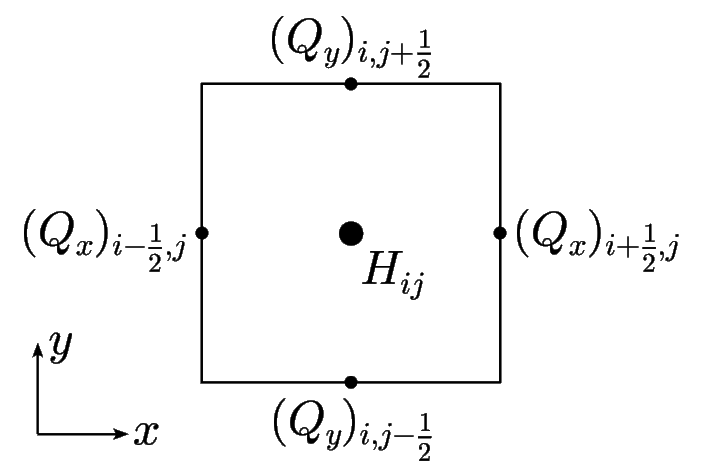
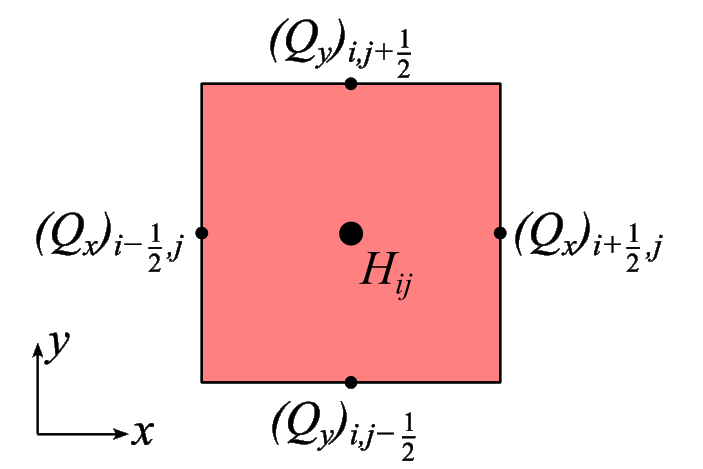
Sphinx manual: Grid registration explained in "Modelling choices / Model domain, grid and time".

diff --git a/docs/sphinx/source/modelling_choices/domain_grid_time.rst b/docs/sphinx/source/modelling_choices/domain_grid_time.rst
@@ -88,7 +88,7 @@ The semi-minor axis :math:`B` can be computed from the above parameters via :mat
 
 The components :math:`g_{11}` and :math:`g_{22}` of the metric tensor are computed for simplicity under the assumption of a spherical planet. For case ``0`` (distortion correction neglected), they are set to unity. For the cases ``1`` and ``2``, the derivations are found in ":ref:`Orthogonal coordinates on the Earth's surface/Polar stereographic projection <orthog_coord_pol_ster>`" and ":ref:`Orthogonal coordinates on the Earth's surface/Geographic coordinate system <orthog_coord_geogr>`", respectively. The computations are carried out in the module ``metric_m``.
 
-For the most common case of Cartesian coordinates :math:`x` and :math:`y` in the stereographic plane (or any other projection plane), let the domain be the rectangle described by :math:`[x_0,x_\mathrm{max}]`, :math:`[y_0,y_\mathrm{max}]`. It is discretized by a regular (structured) grid with horizontal resolution :math:`\Delta{x}`, which is the same for the :math:`x`- and :math:`y`-directions. The location of the grid points :math:`x_i` and :math:`y_j` is then given by
+For the most common case of Cartesian coordinates :math:`x` and :math:`y` in the stereographic plane (or any other projection plane), let the domain be the rectangle described by :math:`[x_0,x_\mathrm{max}]`, :math:`[y_0,y_\mathrm{max}]`. It is discretized by a regular (structured) grid with horizontal resolution :math:`\Delta{x}`, which is the same for the :math:`x`- and :math:`y`-directions. SICOPOLIS employs grid-line registration (:numref:`grid_registration`). Hence, the location of the grid points (nodes) :math:`x_i` and :math:`y_j` is given by
 
 .. math::
   :label: eq_discr_x
@@ -107,6 +107,21 @@ where the notation :math:`a\,(b)\,c` means "from :math:`a` to :math:`c` in steps
 * ``DX`` (:math:`=\Delta{}x`, horizontal grid spacing in km),
 * ``IMAX`` (:math:`=i_\mathrm{max}`, maximum value of the index :math:`i`),
 * ``JMAX`` (:math:`=j_\mathrm{max}`, maximum value of the index :math:`j`).
+
+.. _grid_registration:
+.. figure:: figs/Grid_Registration.png
+  :width: 525 px
+  :alt: Grid registration
+  :align: center
+
+  Two grid registration types for a regular (structured) grid.
+  (a) Grid-line registration:
+  the nodes (solid circles) are located at the intersections of the grid lines.
+  (b) Pixel registration:
+  the nodes (solid circles) are centred in the areas between grid lines.
+  The red shades indicate the footprints of the nodes
+  (areas represented by the values at the nodes).
+  SICOPOLIS employs grid-line registration (a).
 
 .. _spatial_grid_vert:
 
